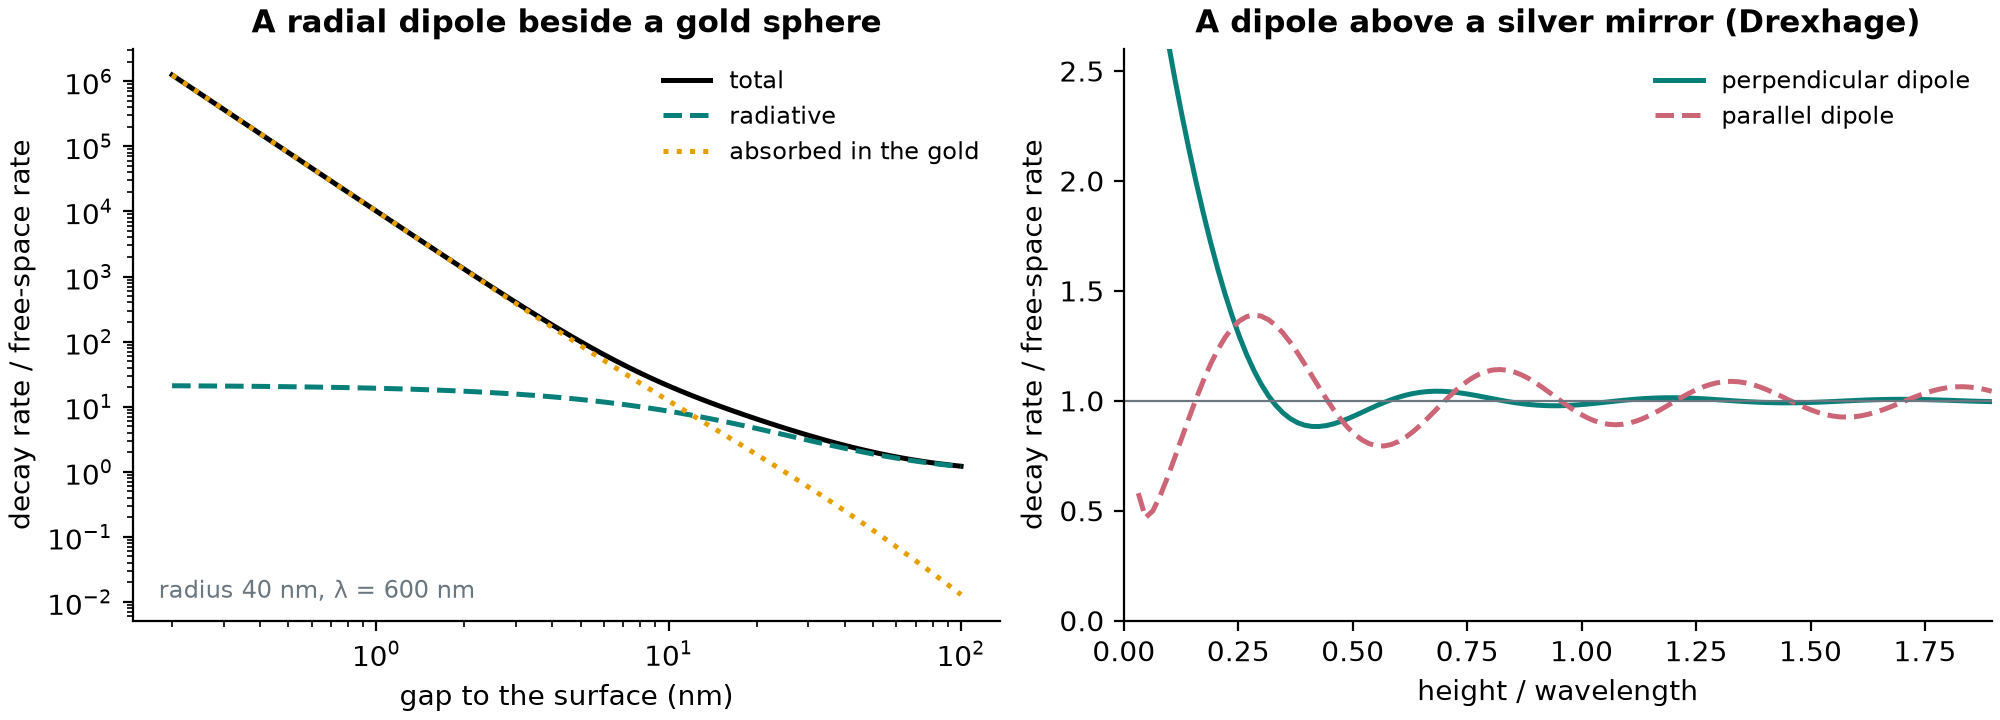
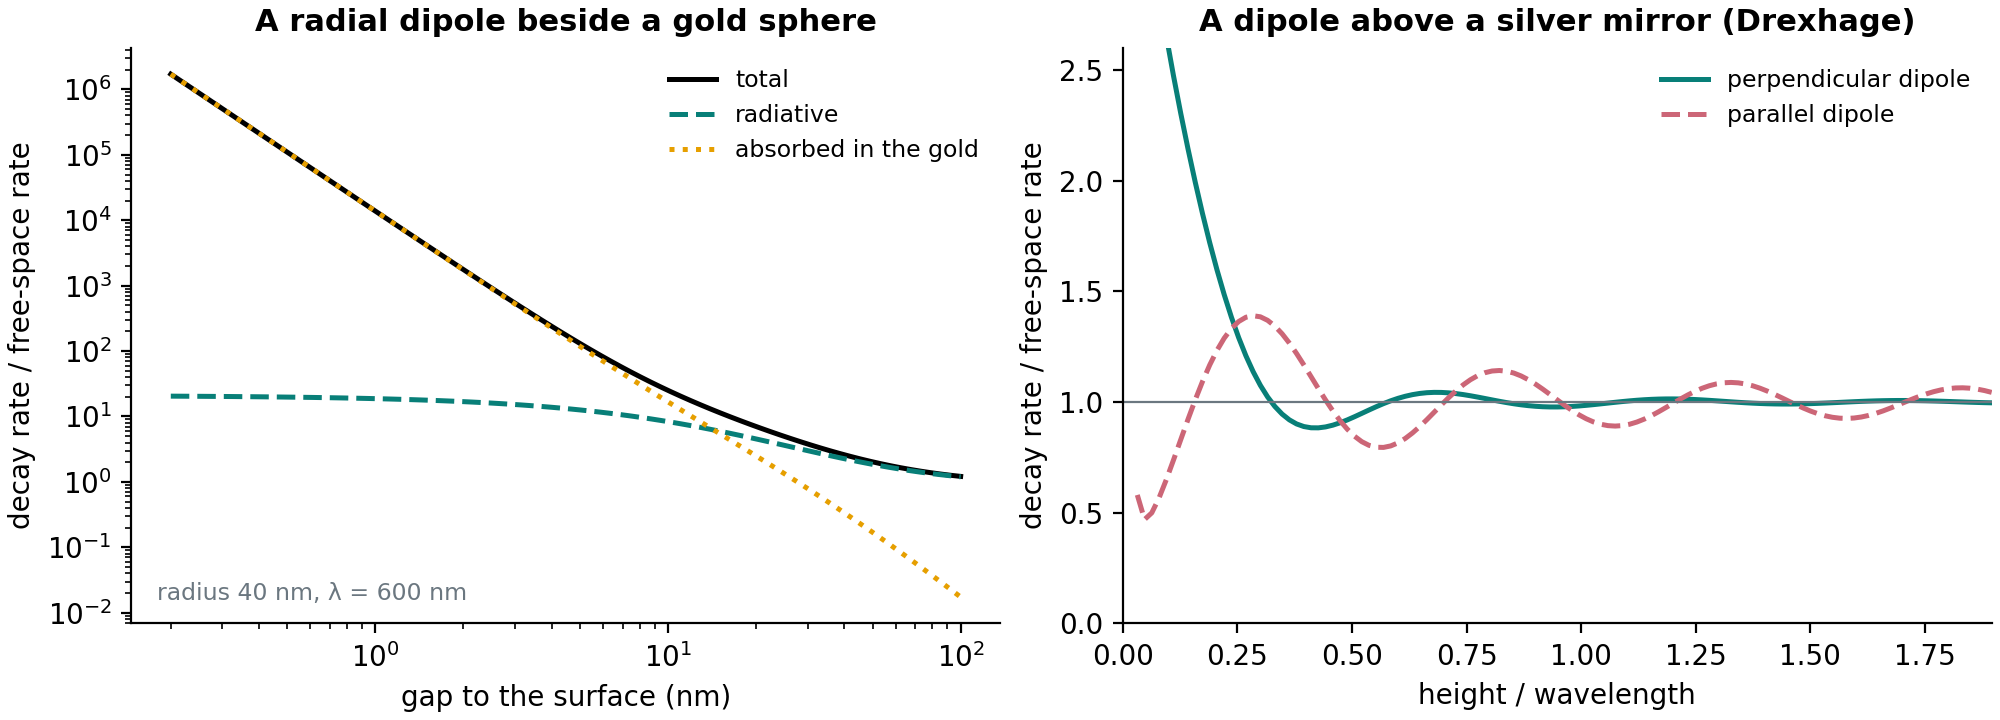
Examples' gold: the 2007 erratum parameters (au-elm-2007e); the 2006 set kept, labelled, where tests pin it
examples/_common.py gold() is Eq. 3 of Etchegoin, Le Ru & Meyer, J. Chem. Phys. 125, 164705 (2006),
now with the parameters of their erratum, J. Chem. Phys. 127, 189901 (2007): the 2006 Table I set had
been fitted to a slightly different equation and is "not as accurate a fit" in Eq. 3. Their book (Le Ru &
Etchegoin 2009, Eq. E.2) uses the erratum set. Against Johnson & Christy over 300-1000 nm the erratum set
is 2.2 % rms in n + ik, the 2006 set 3.6 %.

- tests/test_gold_model.py pins the helper to Eq. 3 with the erratum set and checks, against the repo's
  own Johnson & Christy table, that the two sets are told apart.
- docs/images/geometries.png and emitters.png regenerated: only their gold panels change.
- Five tests and benchmarks/sphere_emitter_checks.py keep the 2006 value as a fixed test index, now
  labelled au-elm-2006 with the erratum's value beside it, so their comparisons stand.
- The 11 examples' printed numbers move by up to 36 % (more loss: lower enhancements, higher
  non-radiative rates); none is quoted in the README, the guides or the Learn sources.

Assurance WP03 (F02), 2026-10-31.

diff --git a/tests/test_gold_model.py b/tests/test_gold_model.py
@@ -1,0 +1,51 @@
+"""The examples' analytic gold (examples/_common.py) is Eq. 3 of Etchegoin, Le Ru & Meyer, J. Chem. Phys. 125, 164705
+(2006), with the parameters of their erratum, J. Chem. Phys. 127, 189901 (2007): the model identity au-elm-2007e.
+The 2006 Table I set had been fitted to a slightly different equation. The independent reference is the Johnson and
+Christy data both sets were fitted to: in the visible and near ultraviolet the erratum set is the closer one."""
+
+import importlib.util
+from pathlib import Path
+
+import numpy as np
+
+from pystratify import dispersion as dm
+
+ROOT = Path(__file__).resolve().parents[1]
+ELM_2006 = (1.53, 145.0, 17000.0, ((0.94, -np.pi / 4, 468.0, 2300.0), (1.36, -np.pi / 4, 331.0, 940.0)))
+ELM_2007E = (1.54, 143.0, 14500.0, ((1.27, -np.pi / 4, 470.0, 1900.0), (1.1, -np.pi / 4, 325.0, 1060.0)))
+
+
+def eq3(lam, eps_inf, lam_p, gamma_p, critical_points):
+    """Eq. 3 of the 2006 paper: Drude plus two critical points, wavelengths in nm."""
+    eps = eps_inf - 1 / (lam_p**2 * (1 / lam**2 + 1j / (gamma_p * lam)))
+    for amplitude, phase, lam_i, gamma_i in critical_points:
+        eps = eps + amplitude / lam_i * (np.exp(1j * phase) / (1 / lam_i - 1 / lam - 1j / gamma_i)
+                                         + np.exp(-1j * phase) / (1 / lam_i + 1 / lam + 1j / gamma_i))
+    return eps
+
+
+def examples_gold():
+    spec = importlib.util.spec_from_file_location("examples_common", ROOT / "examples" / "_common.py")
+    module = importlib.util.module_from_spec(spec)
+    spec.loader.exec_module(module)
+    return module.gold
+
+
+def test_the_examples_gold_is_the_erratum_set():
+    gold = examples_gold()
+    lam = np.linspace(250.0, 1000.0, 31)
+    assert np.allclose(gold(lam) ** 2, eq3(lam, *ELM_2007E), rtol=1e-12)
+    assert abs(gold(614.0) - (0.2035 + 3.1793j)) < 1e-4  # the 2006 set gives 0.1412 + 3.1518j
+
+
+def test_the_erratum_set_is_closer_to_johnson_and_christy_in_the_visible():
+    jc = dm.Table.from_refractiveindex(ROOT / "crosscheck" / "classics" / "data" / "Au_Johnson.yml")
+    lam = np.asarray(jc.wavelength_nm, dtype=float)
+    keep = (lam >= 300) & (lam <= 1000)
+    measured = (np.asarray(jc.n) + 1j * np.asarray(jc.k))[keep]
+
+    def rms(params):
+        return np.sqrt(np.mean(np.abs(np.sqrt(eq3(lam[keep], *params)) - measured) ** 2 / np.abs(measured) ** 2))
+
+    assert keep.sum() >= 20
+    assert rms(ELM_2007E) < 0.025 < 0.03 < rms(ELM_2006)  # 0.022 against 0.036 on 24 points (WP03, 2026-10-31)

diff --git a/examples/_common.py b/examples/_common.py
@@ -6,15 +6,18 @@ import numpy as np
 
 
 def gold(wavelength_nm):
-    """Refractive index of gold, analytic Drude + two critical points model.
+    """Refractive index of gold, analytic Drude + two critical points model (``au-elm-2007e``).
 
-    Etchegoin, Le Ru & Meyer, J. Chem. Phys. 125, 164705 (2006), fitted to
-    Johnson & Christy; good to a few per cent over 400-1000 nm.  For real work
+    Eq. 3 of Etchegoin, Le Ru & Meyer, J. Chem. Phys. 125, 164705 (2006), with the
+    parameters of their erratum, J. Chem. Phys. 127, 189901 (2007), fitted to Johnson &
+    Christy for the visible and near ultraviolet (the 2006 Table I set had been fitted to a
+    slightly different equation; their book, Le Ru & Etchegoin 2009, Eq. E.2, uses these).
+    Against Johnson & Christy over 300-1000 nm the rms error is 2 % in n + ik.  For real work
     take tabulated n, k (e.g. from refractiveindex.info) instead.
     """
     lam = np.asarray(wavelength_nm, dtype=float)
-    eps = 1.53 - 1 / (145.0**2 * (1 / lam**2 + 1j / (17000.0 * lam)))
-    for amplitude, phase, lam_i, gamma_i in ((0.94, -np.pi / 4, 468.0, 2300.0), (1.36, -np.pi / 4, 331.0, 940.0)):
+    eps = 1.54 - 1 / (143.0**2 * (1 / lam**2 + 1j / (14500.0 * lam)))
+    for amplitude, phase, lam_i, gamma_i in ((1.27, -np.pi / 4, 470.0, 1900.0), (1.1, -np.pi / 4, 325.0, 1060.0)):
         eps = eps + amplitude / lam_i * (
             np.exp(1j * phase) / (1 / lam_i - 1 / lam - 1j / gamma_i)
             + np.exp(-1j * phase) / (1 / lam_i + 1 / lam + 1j / gamma_i)

diff --git a/tests/test_feibelman.py b/tests/test_feibelman.py
@@ -18,7 +18,9 @@ sys.path.insert(0, str(Path(__file__).resolve().parents[1] / "benchmarks"))
 import sphere_emitter_checks as emitters  # noqa: E402
 from checks import assert_rows  # noqa: E402
 
-AU = 0.1412 + 3.1518j  # Etchegoin, Le Ru & Meyer gold at 614 nm
+# A fixed test index: the gold model au-elm-2006 at 614 nm (Etchegoin, Le Ru & Meyer's 2006 Table I, which their
+# 2007 erratum corrects to 0.2035 + 3.1793j; examples/_common.py now uses the erratum), kept so the results compare.
+AU = 0.1412 + 3.1518j
 F = ps.Feibelman
 SHELL = ([8.0, 10.0], [1.45, AU, 1.33], 614.0)
 SHELL_D = {0: F(0.25 + 0.08j, 0.1 + 0.02j, "outer"), 1: F(0.3 + 0.1j, -0.1 + 0.05j)}

diff --git a/tests/test_shift.py b/tests/test_shift.py
@@ -15,7 +15,9 @@ sys.path.insert(0, str(Path(__file__).resolve().parents[1] / "benchmarks"))
 import sphere_emitter_checks as emitters  # noqa: E402
 from checks import assert_rows  # noqa: E402
 
-AU = 0.1412 + 3.1518j  # Etchegoin, Le Ru & Meyer gold at 614 nm
+# A fixed test index: the gold model au-elm-2006 at 614 nm (Etchegoin, Le Ru & Meyer's 2006 Table I, which their
+# 2007 erratum corrects to 0.2035 + 3.1793j; examples/_common.py now uses the erratum), kept so the results compare.
+AU = 0.1412 + 3.1518j
 AU690 = 0.0992 + 3.9183j  # the same at 690 nm
 
 CASES = {  # radii, n, mu, wavelength, r, digits of the reference

diff --git a/docs/images/readme_figures.py b/docs/images/readme_figures.py
@@ -4,7 +4,8 @@
     python docs/images/readme_figures.py          # writes docs/images/*.png (about a minute)
 
 Optical constants are simple on purpose: constant indices for the dielectrics, and for gold the analytic
-Drude + two-critical-point fit of examples/_common.py (Etchegoin, Le Ru & Meyer 2006, fitted to Johnson & Christy).
+Drude + two-critical-point fit of examples/_common.py (Etchegoin, Le Ru & Meyer 2006, Eq. 3, with the parameters of
+their 2007 erratum; fitted to Johnson & Christy).
 Real work takes tabulated n, k (refractiveindex.info). Silver at 633 nm is Johnson & Christy's tabulated value.
 """
 

diff --git a/benchmarks/sphere_emitter_checks.py b/benchmarks/sphere_emitter_checks.py
@@ -33,8 +33,10 @@ from pystratify.references import sphere_decay_rates  # noqa: E402
 
 LAM = 614.0
 AU = 0.27 + 2.93j
-AU_ELM = 0.1412 + 3.1518j  # Etchegoin, Le Ru & Meyer gold at 614 nm
-AU690 = 0.0992 + 3.9183j  # the same at 690 nm
+# Fixed test indices: the gold model au-elm-2006 (Etchegoin, Le Ru & Meyer's 2006 Table I) at 614 and 690 nm; their
+# 2007 erratum corrects them to 0.2035 + 3.1793j and 0.1385 + 3.9542j. Kept so the reports' numbers compare.
+AU_ELM = 0.1412 + 3.1518j
+AU690 = 0.0992 + 3.9183j
 
 
 # ---------------------------------------------------------------- decay rates against mpmath

diff --git a/tests/test_routes.py b/tests/test_routes.py
@@ -9,7 +9,9 @@ import pytest
 import pystratify as ps
 from pystratify.rates import _SIGN, _functionals, _tetm_functionals
 
-AU = 0.1412 + 3.1518j  # Etchegoin, Le Ru & Meyer gold at 614 nm
+# A fixed test index: the gold model au-elm-2006 at 614 nm (Etchegoin, Le Ru & Meyer's 2006 Table I, which their
+# 2007 erratum corrects to 0.2035 + 3.1793j; examples/_common.py now uses the erratum), kept so the results compare.
+AU = 0.1412 + 3.1518j
 SHELL = ([40.0, 100.0], [1.45, 3.5, 1.33], 650.0)  # lossless high-index shell in water (Sec. 7 of the paper)
 
 

diff --git a/tests/test_pairs.py b/tests/test_pairs.py
@@ -16,7 +16,9 @@ import sphere_emitter_checks as emitters  # noqa: E402
 from checks import assert_rows  # noqa: E402
 from sphere_emitter_checks import _mp_two_point  # noqa: E402
 
-AU = 0.1412 + 3.1518j  # Etchegoin, Le Ru & Meyer gold at 614 nm
+# A fixed test index: the gold model au-elm-2006 at 614 nm (Etchegoin, Le Ru & Meyer's 2006 Table I, which their
+# 2007 erratum corrects to 0.2035 + 3.1793j; examples/_common.py now uses the erratum), kept so the results compare.
+AU = 0.1412 + 3.1518j
 SHELL = ([50.0, 55.0], [1.45, AU, 1.33], 614.0)
 
 

diff --git a/tests/test_ensemble.py b/tests/test_ensemble.py
@@ -5,7 +5,9 @@ import pytest
 
 import pystratify as ps
 
-AU = 0.1412 + 3.1518j  # Etchegoin, Le Ru & Meyer gold at 614 nm
+# A fixed test index: the gold model au-elm-2006 at 614 nm (Etchegoin, Le Ru & Meyer's 2006 Table I, which their
+# 2007 erratum corrects to 0.2035 + 3.1793j; examples/_common.py now uses the erratum), kept so the results compare.
+AU = 0.1412 + 3.1518j
 COATED = ([50.0, 60.0], [AU, 1.45, 1.33], 614.0)  # dye-doped silica shell on a gold core, in water
 
 
